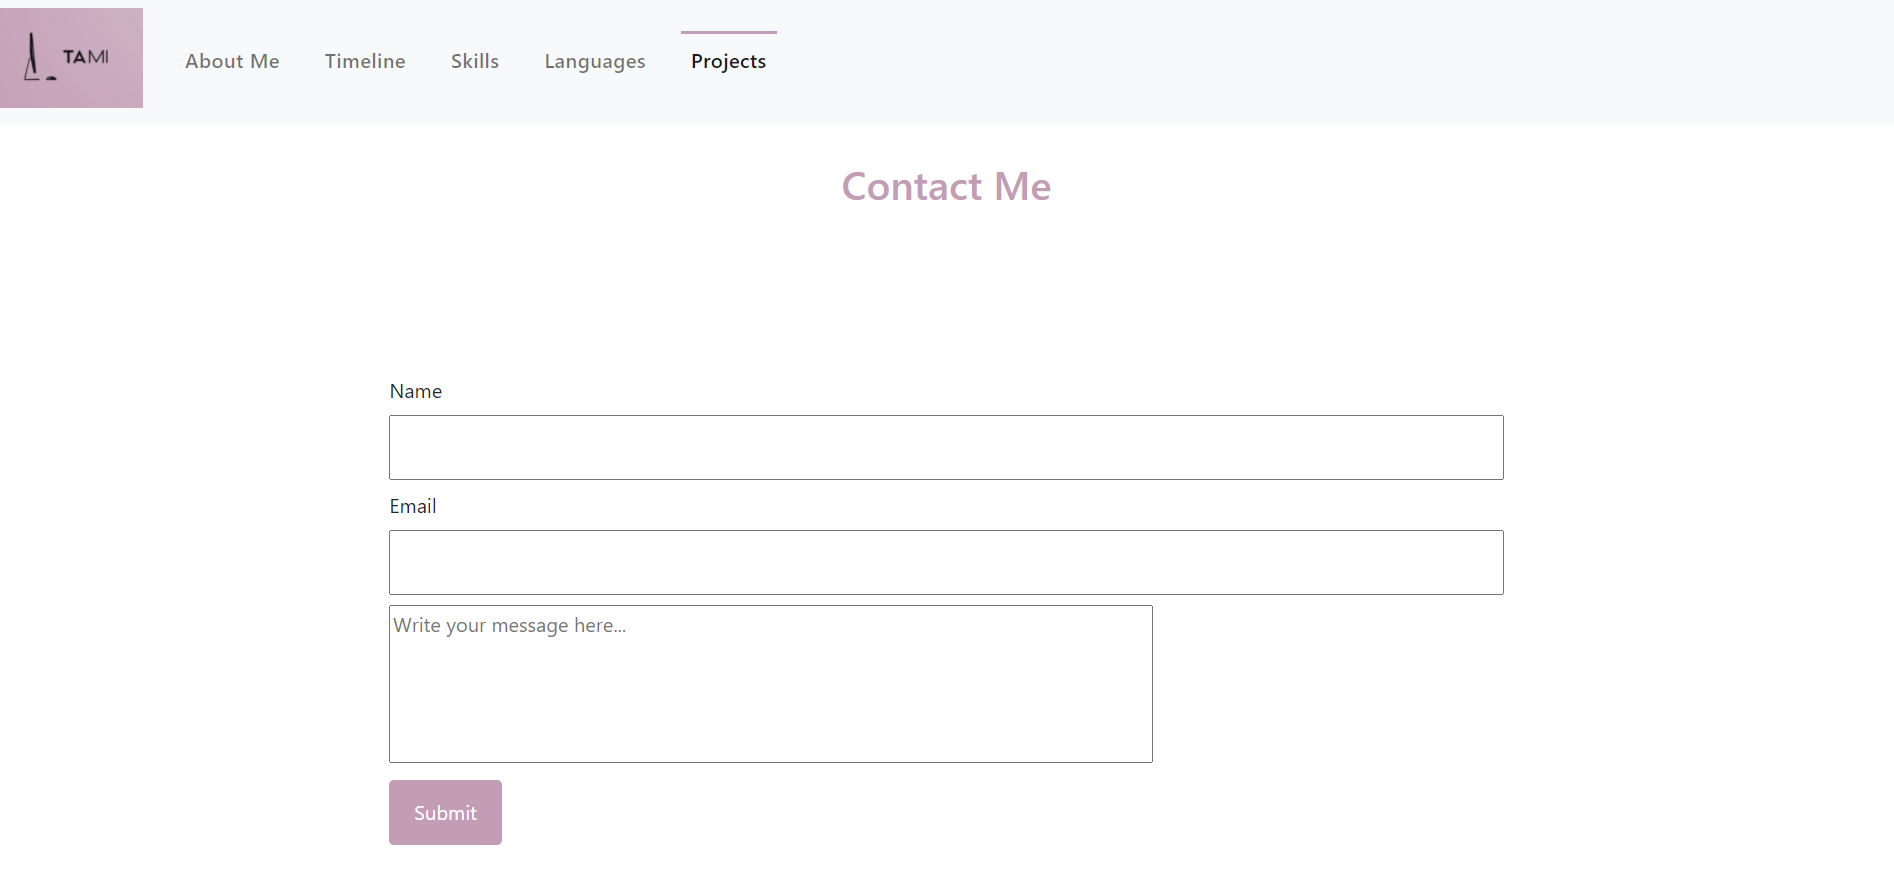
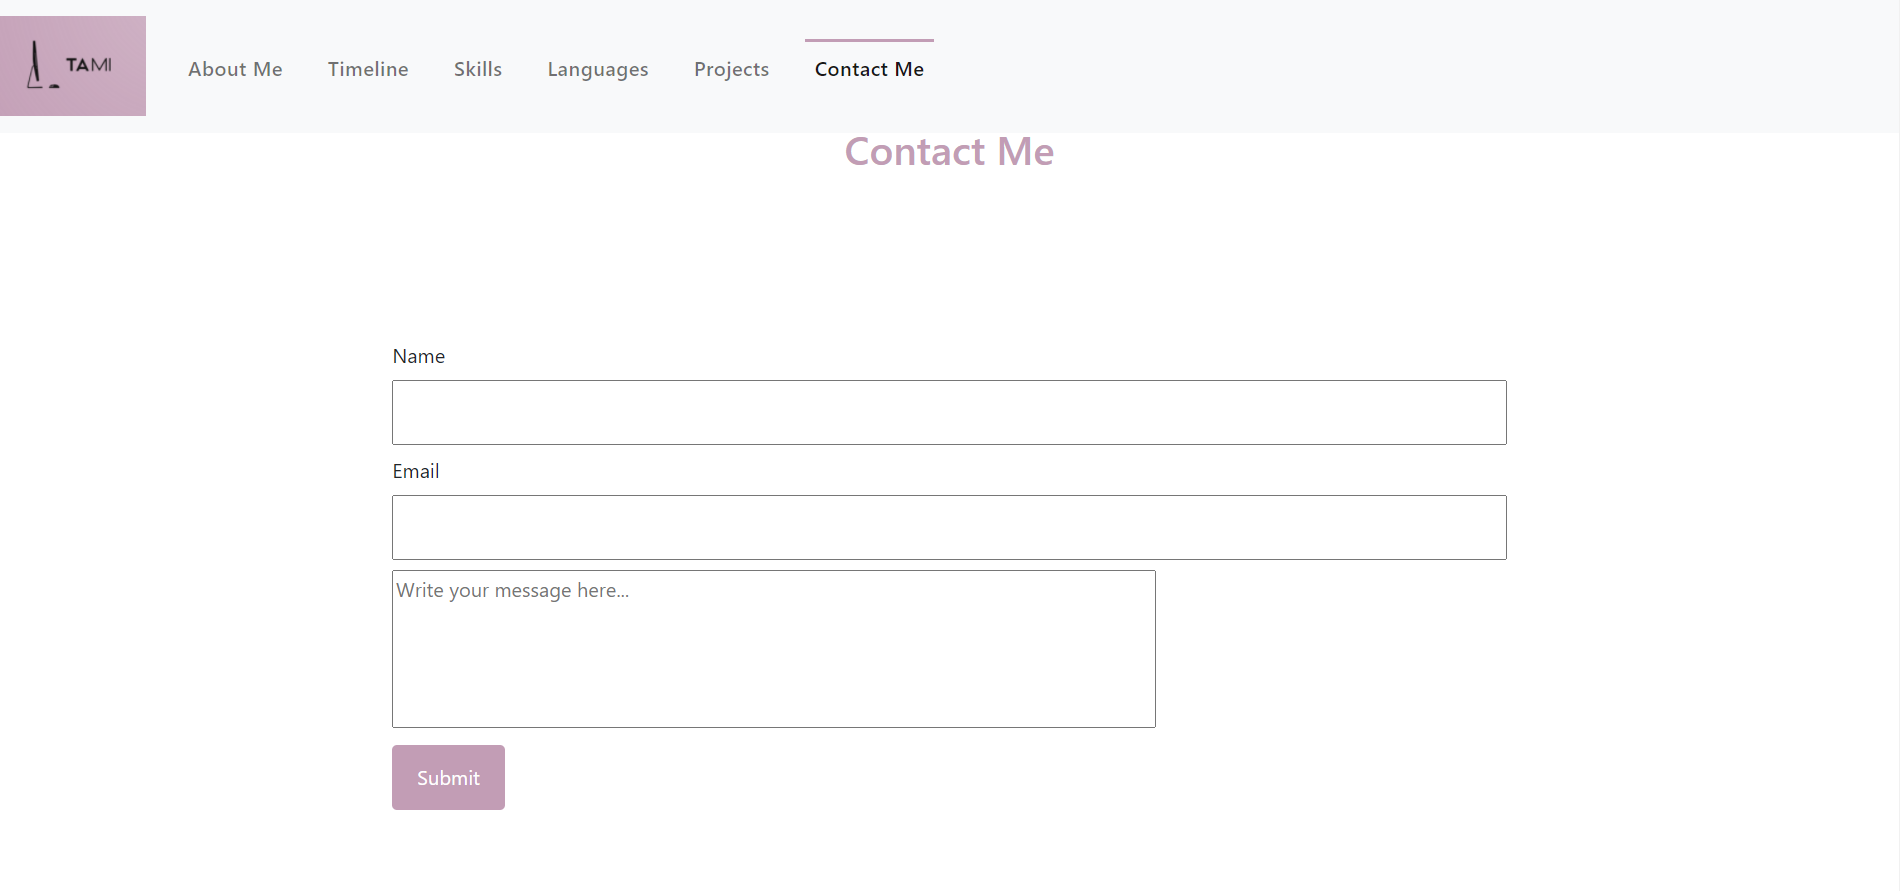
photos

diff --git a/src/components/Navbar/Navbar.js b/src/components/Navbar/Navbar.js
@@ -9,8 +9,7 @@ const mapping = {
     "about_me": "About Me",
     "timeline" : "Timeline",
     "projects": "Projects",
-    "contact me anonymously": "Contact Me",
-    "contact me": "Contact Me",
+    "contact_me": "Contact Me",
     "skills": "Skills",
     "languages": "Languages"
 }
